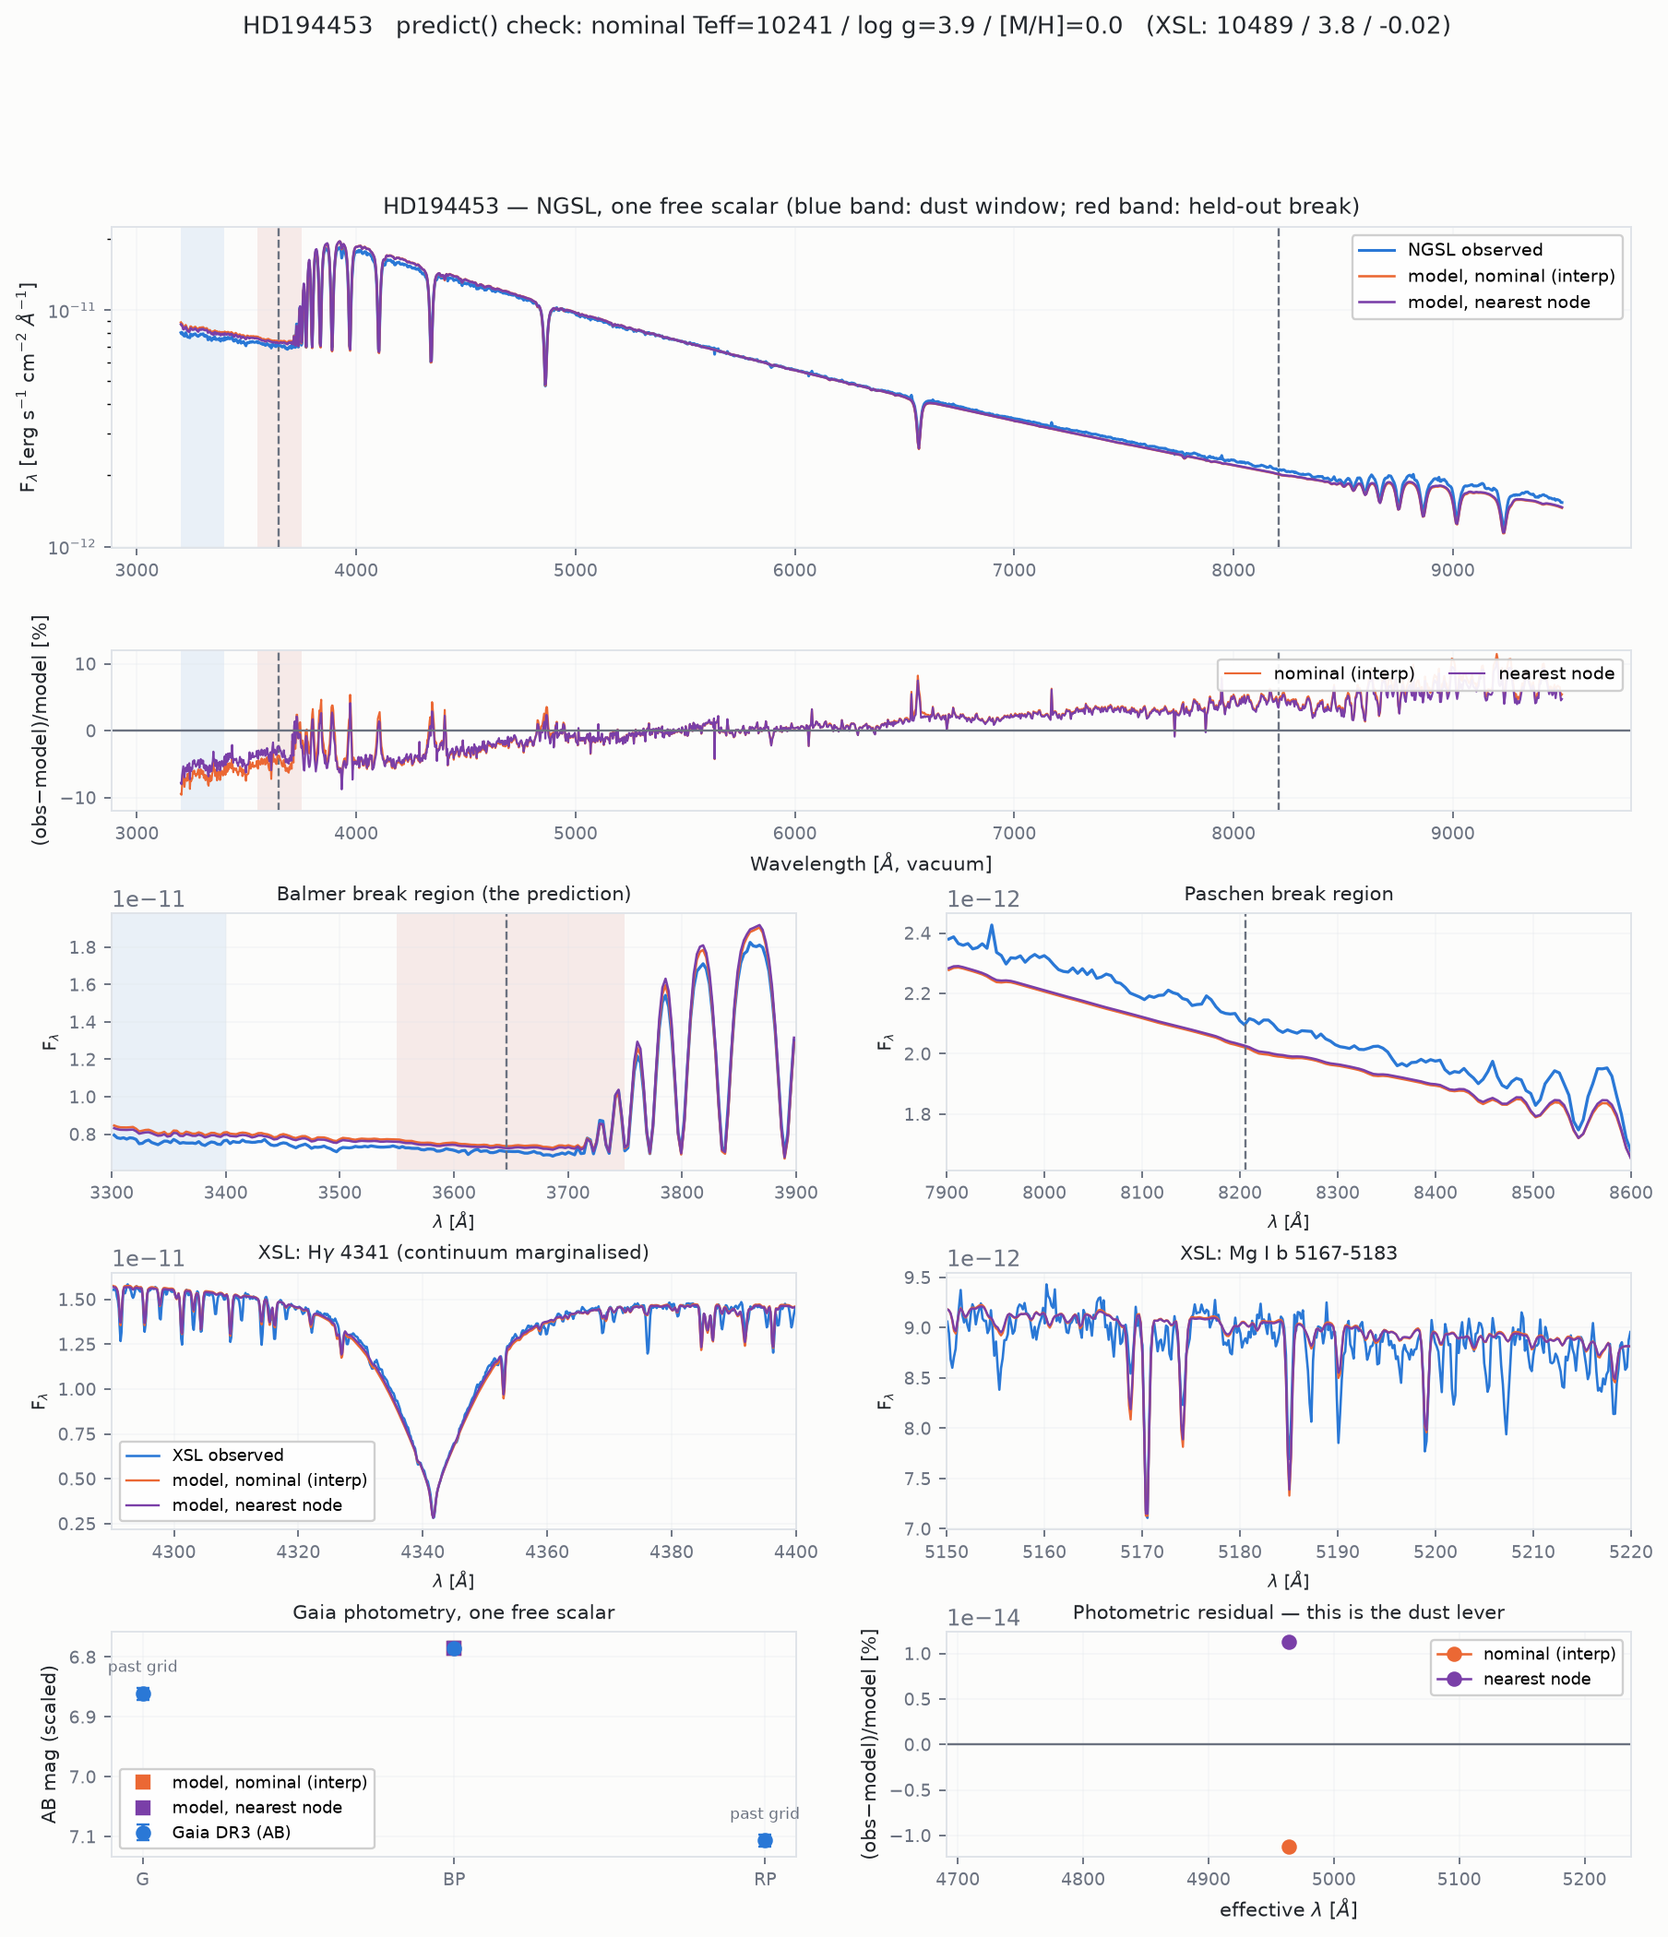
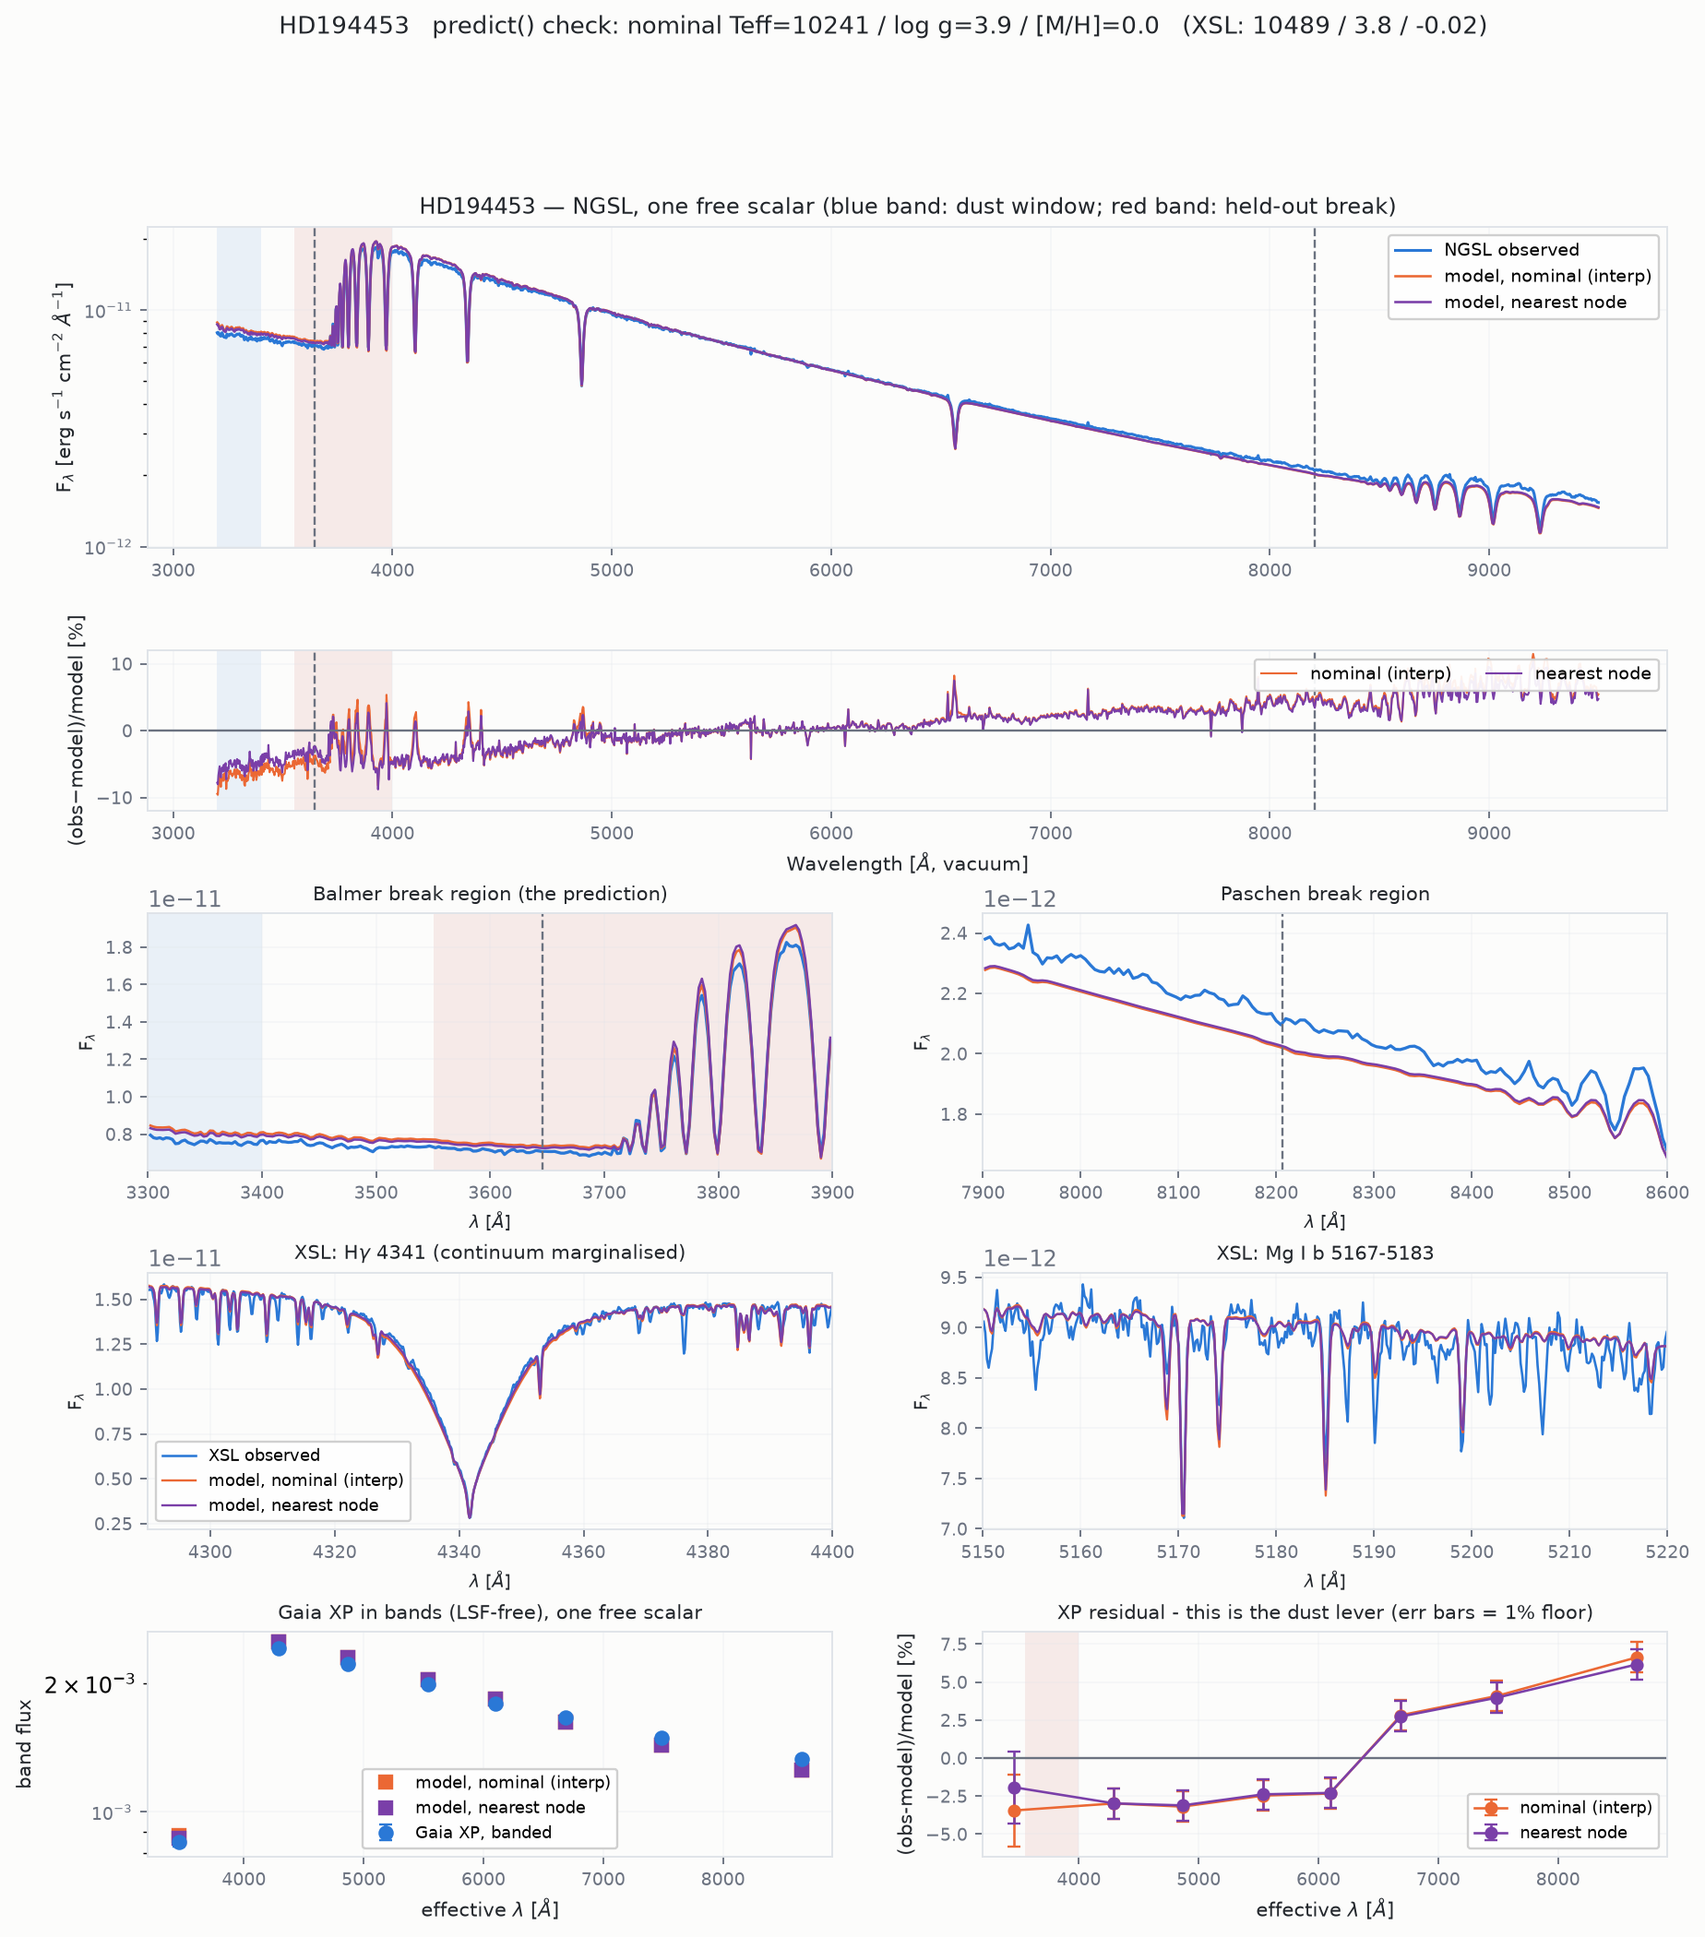
Use Gaia XP in bands as the dust lever; hold out 3550-4000
Gaia BROADBAND photometry cannot do this job: gaia_g (3270-10500 A) and
gaia_rp (6160-10700 A) run past the grid's 9500 A limit, and gaia_bp
alone is exactly determined by its own free scalar, so it carries no
information and spans the break besides. The XP sampled spectra, already
downloaded, give the same baseline inside the grid.

Banded rather than per-pixel, which sidesteps XP's line-spread function
entirely. Convolution conserves the integral, so a band whose EDGES lie in
line-free continuum gives the same answer whatever the LSF is -- even when
the band contains a Balmer line, as long as the wings are wholly inside.
The band edges are placed for that reason, not at round numbers. XP's LSF
is a basis reconstruction with R ~ 20-100, so this is the difference
between a defensible number and a guess.

The held-out region widens to 3550-4000 A: the high-order Balmer lines
crowd from H-epsilon 3970 down to the series limit and Ca II H and K sit
at 3934/3968, so all of it is break information. It is now one shared
constant, BREAK_WINDOW.

Working on HD194453 at the nearest node: the XP bands run -3.1% in the
blue to +6.2% in the red at E(B-V)=0, a 9% tilt against 1% band errors,
and E(B-V)=0.03 collapses chi2/N from 11.4 to 3.2. That is the dust
constraint the broadband photometry could not provide.

Two band edges had to move inside their ranges (3380 not 3360, 9480 not
9500) because tophat() tapers ~10 A past each edge and the coverage guard
[…]

diff --git a/explore/check_predict.py b/explore/check_predict.py
@@ -22,14 +22,14 @@ import matplotlib.pyplot as plt
 
 sys.path.insert(0, str(Path(__file__).resolve().parent.parent))
 from fitting.model import Grid
-from fitting.observations import load_ngsl, load_xsl, load_photometry
+from fitting.observations import (load_ngsl, load_xsl, load_photometry,
+                                  load_xp, BREAK_WINDOW)
 from fitting.predict import predict, spectrum_at, _on_node, NODE_ATOL
 from fitting.calibration import solve, residual, chi2
 from common.photometry import overlaps, coverage
 
 ROOT = Path(__file__).resolve().parent.parent
 BALMER, PASCHEN = 3646.0, 8205.9
-BREAK_WINDOW = (3550.0, 3750.0)      # held out of the fit; predicted
 DUST_WINDOW = (3200.0, 3400.0)       # line-free, NGSL-only dust constraint
 
 OBS_C, MOD_C, MOD2_C = '#2a78d6', '#eb6834', '#7a3fa8'
@@ -71,13 +71,20 @@ def main():
 
     obs = []
     for fn, label in ((load_ngsl, 'ngsl'), (load_xsl, 'xsl'),
-                      (load_photometry, 'phot')):
+                      (load_xp, 'xp'), (load_photometry, 'phot')):
         try:
             o = fn(a.star)
             obs.append(o)
             print(f'  {o!r}')
         except Exception as exc:
             print(f'  no {label}: {type(exc).__name__}: {exc}')
+
+    xp = next((o for o in obs if o.name == 'xp'), None)
+    if xp is not None:
+        print(f'\n  Gaia XP bands (held-out window {BREAK_WINDOW[0]:.0f}-'
+              f'{BREAK_WINDOW[1]:.0f} A excluded):')
+        print(f'    kept    : {", ".join(xp.meta["names"])}')
+        print(f'    dropped : {", ".join(xp.meta["excluded"]) or "none"}')
 
     phot = next((o for o in obs if o.name == 'phot'), None)
     if phot is not None:
@@ -129,7 +136,7 @@ def main():
                   f'residual rms = {rms:6.2f}%   ncoeff={len(c)}   n={int(u.sum())}')
             if o.name == 'ngsl':
                 for wlo, whi, nm in ((DUST_WINDOW[0], DUST_WINDOW[1], 'dust 3200-3400'),
-                                     (BREAK_WINDOW[0], BREAK_WINDOW[1], 'break 3550-3750'),
+                                     (BREAK_WINDOW[0], BREAK_WINDOW[1], 'break (held out)'),
                                      (4000., 9400., 'red 4000-9400')):
                     s = o.mask & (o.wavelength > wlo) & (o.wavelength < whi)
                     if s.sum() > 5:
@@ -218,42 +225,37 @@ def figure(star, obs, results, row):
             if col == 0:
                 axx.legend(fontsize=7.5, loc='lower left', framealpha=.92)
 
-    # --- photometry -------------------------------------------------------
-    if ph is not None:
+    # --- Gaia XP bands: the dust lever ------------------------------------
+    xp = next((o for o in obs if o.name == 'xp'), None)
+    if xp is not None:
         axp = fig.add_subplot(gs[4, 0])
         axp2 = fig.add_subplot(gs[4, 1])
         for a_ in (axp, axp2):
             style(a_)
-        names = ph.meta['names']
-        x = np.arange(len(names))
-        lam = np.array([f.wave_effective for f in ph.filters])
-        u0 = results[labels[0]]['phot'][3]
-        axp.errorbar(x, -2.5 * np.log10(ph.flux), yerr=2.5 / np.log(10)
-                     * ph.uncertainty / ph.flux, fmt='o', color=OBS_C,
-                     label='Gaia DR3 (AB)', ms=6, capsize=3)
+        lam = np.array([f.wave_effective for f in xp.filters])
+        u0 = results[labels[0]]['xp'][3]
+        axp.errorbar(lam, xp.flux, yerr=xp.uncertainty, fmt='o', color=OBS_C,
+                     ms=6, capsize=3, label='Gaia XP, banded')
         for lab, c in zip(labels, (MOD_C, MOD2_C)):
-            cal = results[lab]['phot'][0]
-            axp.plot(x[u0], -2.5 * np.log10(cal[u0]), 's', color=c, ms=6,
-                     label=f'model, {lab}')
-        for i, ok in enumerate(u0):
-            if not ok:
-                axp.annotate('past grid', (x[i], -2.5 * np.log10(ph.flux[i])),
-                             fontsize=7, color=MUTED, xytext=(0, 10),
-                             textcoords='offset points', ha='center')
-        axp.set_xticks(x)
-        axp.set_xticklabels([n.replace('gaia_', '').upper() for n in names])
-        axp.invert_yaxis()
-        axp.set_ylabel('AB mag (scaled)', fontsize=9, color=INK)
-        axp.set_title('Gaia photometry, one free scalar', fontsize=9, color=INK)
+            cal = results[lab]['xp'][0]
+            axp.plot(lam[u0], cal[u0], 's', color=c, ms=6, label=f'model, {lab}')
+        axp.set_yscale('log')
+        axp.set_ylabel('band flux', fontsize=9, color=INK)
+        axp.set_xlabel(r'effective $\lambda$ [$\AA$]', fontsize=9, color=INK)
+        axp.set_title('Gaia XP in bands (LSF-free), one free scalar',
+                      fontsize=9, color=INK)
         axp.legend(fontsize=7.5, framealpha=.92)
 
         for lab, c in zip(labels, (MOD_C, MOD2_C)):
-            r = results[lab]['phot'][1]
-            axp2.plot(lam[u0], r[u0] * 100, 'o-', color=c, lw=1.1, ms=6, label=lab)
+            r = results[lab]['xp'][1]
+            axp2.errorbar(lam[u0], r[u0] * 100,
+                          yerr=100 * xp.uncertainty[u0] / xp.flux[u0],
+                          fmt='o-', color=c, lw=1.1, ms=5, capsize=3, label=lab)
         axp2.axhline(0, color=MUTED, lw=1)
+        axp2.axvspan(*BREAK_WINDOW, color='#c0392b', alpha=.09, lw=0)
         axp2.set_xlabel(r'effective $\lambda$ [$\AA$]', fontsize=9, color=INK)
-        axp2.set_ylabel('(obs−model)/model [%]', fontsize=9, color=INK)
-        axp2.set_title('Photometric residual — this is the dust lever',
+        axp2.set_ylabel('(obs-model)/model [%]', fontsize=9, color=INK)
+        axp2.set_title('XP residual - this is the dust lever (err bars = 1% floor)',
                        fontsize=9, color=INK)
         axp2.legend(fontsize=7.5, framealpha=.92)
 

diff --git a/fitting/observations.py b/fitting/observations.py
@@ -205,6 +205,88 @@ def load_photometry(star, names=GAIA_FILTERS, mag_floor=GAIA_MAG_FLOOR):
                   mag_floor=mag_floor, source_id=g['source_id']))
 
 
+# The held-out region: predicted, never conditioned on. 3550-4000 A rather than
+# a narrow window around 3646, because the high-order Balmer lines crowd
+# together from H-epsilon 3970 down to the series limit, and Ca II H and K sit
+# at 3934/3968. Anything in here is Balmer-break information.
+BREAK_WINDOW = (3550.0, 4000.0)
+
+# Bands for the Gaia XP spectrum. Edges are placed in line-free continuum, which
+# is what makes the band integral independent of XP's (complicated,
+# wavelength-dependent, R ~ 20-100) line-spread function: convolution conserves
+# the integral, so a line wholly inside a band contributes the same flux however
+# it is smeared. A band edge cutting through a Balmer wing would NOT be safe.
+#
+# 3550-4000 is omitted entirely -- that is the held-out break. 3360-3540 is the
+# blue-of-break band and is the one that matters most for dust; it is narrow
+# because XP starts at 3360 A and the break region begins at 3550.
+# Edges sit 15+ A inside BOTH the XP range (3360-10200 A) and the model grid
+# (3200-9500 A), because tophat() tapers ~10 A beyond each edge and
+# common.photometry.project returns NaN for a band that is not fully covered.
+# At 3360 and 9500 exactly, the blue and red bands both came back NaN.
+XP_BANDS = [('xp_3380_3540', 3380., 3540.),   # Balmer continuum, blueward
+            ('xp_4050_4550', 4050., 4550.),   # contains H-delta 4102, H-gamma 4341
+            ('xp_4550_5200', 4550., 5200.),   # contains H-beta 4861
+            ('xp_5200_5900', 5200., 5900.),
+            ('xp_5900_6300', 5900., 6300.),
+            ('xp_6300_7100', 6300., 7100.),   # contains H-alpha 6563
+            ('xp_7100_7900', 7100., 7900.),
+            ('xp_7900_9480', 7900., 9480.)]   # contains the Paschen series
+
+# Gaia XP is externally calibrated to ~1-2%. The quoted per-pixel errors are far
+# smaller than that over a whole band, so a calibration floor is applied -- the
+# dust constraint is a colour, and an over-tight band error would be read as a
+# reddening measurement the calibration cannot support.
+XP_CAL_FLOOR = 0.01
+
+
+def load_xp(star, bands=XP_BANDS, cal_floor=XP_CAL_FLOOR,
+            exclude=(BREAK_WINDOW,)):
+    """Gaia XP sampled spectrum, integrated into bands -> Observation.
+
+    This is the long-baseline dust lever: 3360-9500 A from space, ~0.036 mag of
+    differential extinction per 0.01 mag of E(B-V), against 0.0035 mag for
+    NGSL's 3200-3500 A window. Gaia's BROADBAND photometry cannot do this job --
+    gaia_g and gaia_rp run past the grid's 9500 A limit, and gaia_bp alone is
+    exactly determined by its own free scalar, so it carries no information.
+
+    Bands rather than pixels because XP's LSF is a basis reconstruction, not a
+    Gaussian; banding makes the comparison LSF-free (see common.photometry.tophat).
+    """
+    from common.photometry import tophat
+    p = ROOT / 'data' / 'gaia_xp' / f'{star}_xp.csv'
+    d = np.loadtxt(p, delimiter=',', skiprows=1)
+    w, f, e = d[:, 0], d[:, 1], d[:, 2]
+
+    keep = [b for b in bands
+            if not any(b[2] > lo and b[1] < hi for lo, hi in (exclude or []))]
+    filters = [tophat(*b) for b in keep]
+
+    flux, unc = [], []
+    for nm, lo, hi in keep:
+        s = (w >= lo) & (w <= hi) & np.isfinite(f)
+        # band flux as a maggie-like quantity is not needed: integrate f_lambda
+        # through the same tophat the model will see, via the same code path
+        from common.photometry import project as phot_project
+        val = phot_project(w, f, [tophat(nm, lo, hi)])[0]
+        # error: quadrature sum over the band, then the calibration floor
+        rel = (np.sqrt(np.sum(e[s] ** 2)) / np.sum(f[s])) if s.sum() else np.nan
+        flux.append(val)
+        unc.append(abs(val) * max(rel, cal_floor))
+
+    flux, unc = np.array(flux), np.array(unc)
+    return Observation(
+        name='xp', star=star, flux=flux, uncertainty=unc,
+        mask=np.isfinite(flux), filters=filters,
+        resolution=(None,),          # a band integral needs no LSF -- the point
+        calibration=('scalar',),     # colours only
+        rv_fixed=0.0,
+        meta=dict(names=[b[0] for b in keep],
+                  bands=keep, cal_floor=cal_floor,
+                  excluded=[b[0] for b in bands if b not in keep],
+                  file=str(p.relative_to(ROOT))))
+
+
 def load_all(star, **kw):
     """-> [ngsl, xsl, phot] for one star, skipping any that is unavailable."""
     out = []

diff --git a/common/photometry.py b/common/photometry.py
@@ -25,21 +25,46 @@ def filter_set(names):
 def project(wave_A, flam, filters):
     """Synthetic photometry of a spectrum -> maggies, one per filter.
 
-    Returns NaN for any filter whose transmission is not fully covered by the
-    spectrum, rather than silently integrating over the missing part. That guard
-    matters here: the model grid stops at 9500 A, so gaia_g and gaia_rp are only
-    partly covered and would otherwise come back quietly too faint.
+    Returns NaN for any filter whose bandpass is not FULLY covered by the
+    spectrum. This guard is not redundant with sedpy: `obj_counts_hires` has its
+    "Source spectrum does not span filter" assertion commented out, so it clips
+    the integration to whatever is covered and returns a perfectly plausible
+    number. Measured: a source truncated at 9500 A gives gaia_rp 0.040 mag too
+    faint, silently. The model grid stops at 9500 A and the entire dust argument
+    is a colour, so a 0.04 mag error in one band is exactly the failure that
+    must not pass quietly.
     """
     from sedpy.observate import getSED
     wave_A = np.asarray(wave_A, float)
     out = np.full(len(filters), np.nan)
-    mags = getSED(wave_A, np.asarray(flam, float), filterlist=filters)
-    mags = np.atleast_1d(mags)
+    maggies = np.atleast_1d(getSED(wave_A, np.asarray(flam, float),
+                                   filterlist=filters, linear_flux=True))
     for i, f in enumerate(filters):
         lo, hi = f.wavelength[f.transmission > 1e-3 * f.transmission.max()][[0, -1]]
         if wave_A[0] <= lo and wave_A[-1] >= hi:
-            out[i] = 10.0 ** (-0.4 * mags[i])
+            out[i] = maggies[i]
     return out
+
+
+def tophat(name, lo, hi, taper=1.0, step=1.0):
+    """A rectangular bandpass as a sedpy Filter, for banding up a spectrum.
+
+    Integrating a spectrum over a band is how the Gaia XP spectra are used
+    here without needing XP's line-spread function. Convolution conserves the
+    integral, so a band whose EDGES sit in smooth continuum gives the same
+    answer whatever the LSF is -- even if the band contains a line, as long as
+    the line and its wings are wholly inside. That is why the band edges below
+    are placed in line-free stretches rather than at round numbers.
+
+    `taper` softens the edge by a few Angstroms so the transmission is not a
+    literal step; a hard edge makes the band integral sensitive to how much
+    flux the LSF moves across it.
+    """
+    from sedpy.observate import Filter
+    w = np.arange(lo - 10 * taper, hi + 10 * taper, step)
+    t = (0.5 * (1 + np.tanh((w - lo) / taper))
+         * 0.5 * (1 + np.tanh((hi - w) / taper)))
+    return Filter(kname=name, data=(w, t))
 
 
 def coverage(wave_A, filters):
